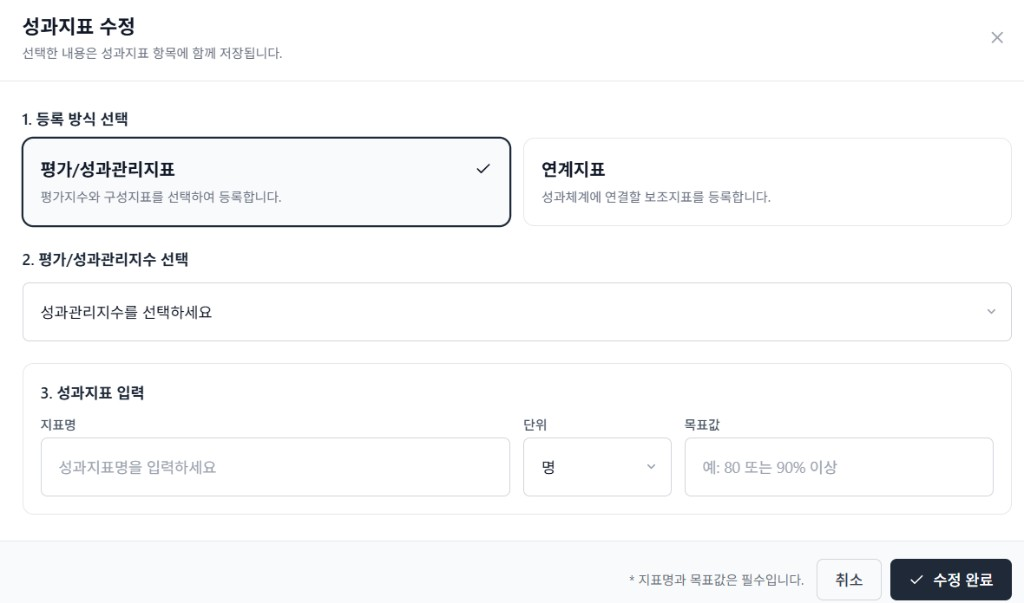
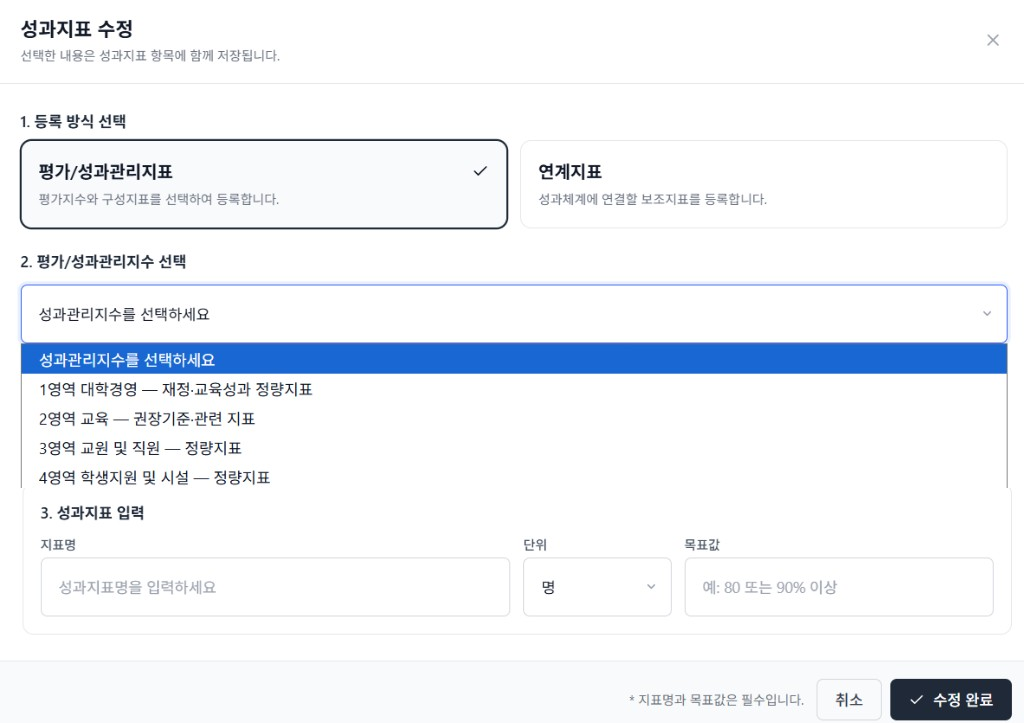
Show the open performance-index dropdown together with the KPI input fields.

diff --git a/AION_설명회_발표자료.html b/AION_설명회_발표자료.html
@@ -1239,7 +1239,7 @@
         <div class="callout danger" style="font-size:12.5px"><b>필수.</b> 지표명과 목표값이 비면 수정 완료가 되지 않습니다. 선택한 내용은 성과지표 항목에 함께 저장됩니다.</div>
       </div>
       <div class="shot-frame tall"><span class="shot-tag">실제 화면 · 성과지표 수정 · 평가/성과관리지표</span>
-        <img src="guide-assets/plan-03-kpi-direct.png" alt="성과지표 수정 창 — 평가/성과관리지표 등록">
+        <img src="guide-assets/plan-03-kpi-direct.png" alt="성과지표 수정 창 — 평가/성과관리지수 드롭다운과 지표명·단위·목표값">
       </div>
     </div>
   </div>
